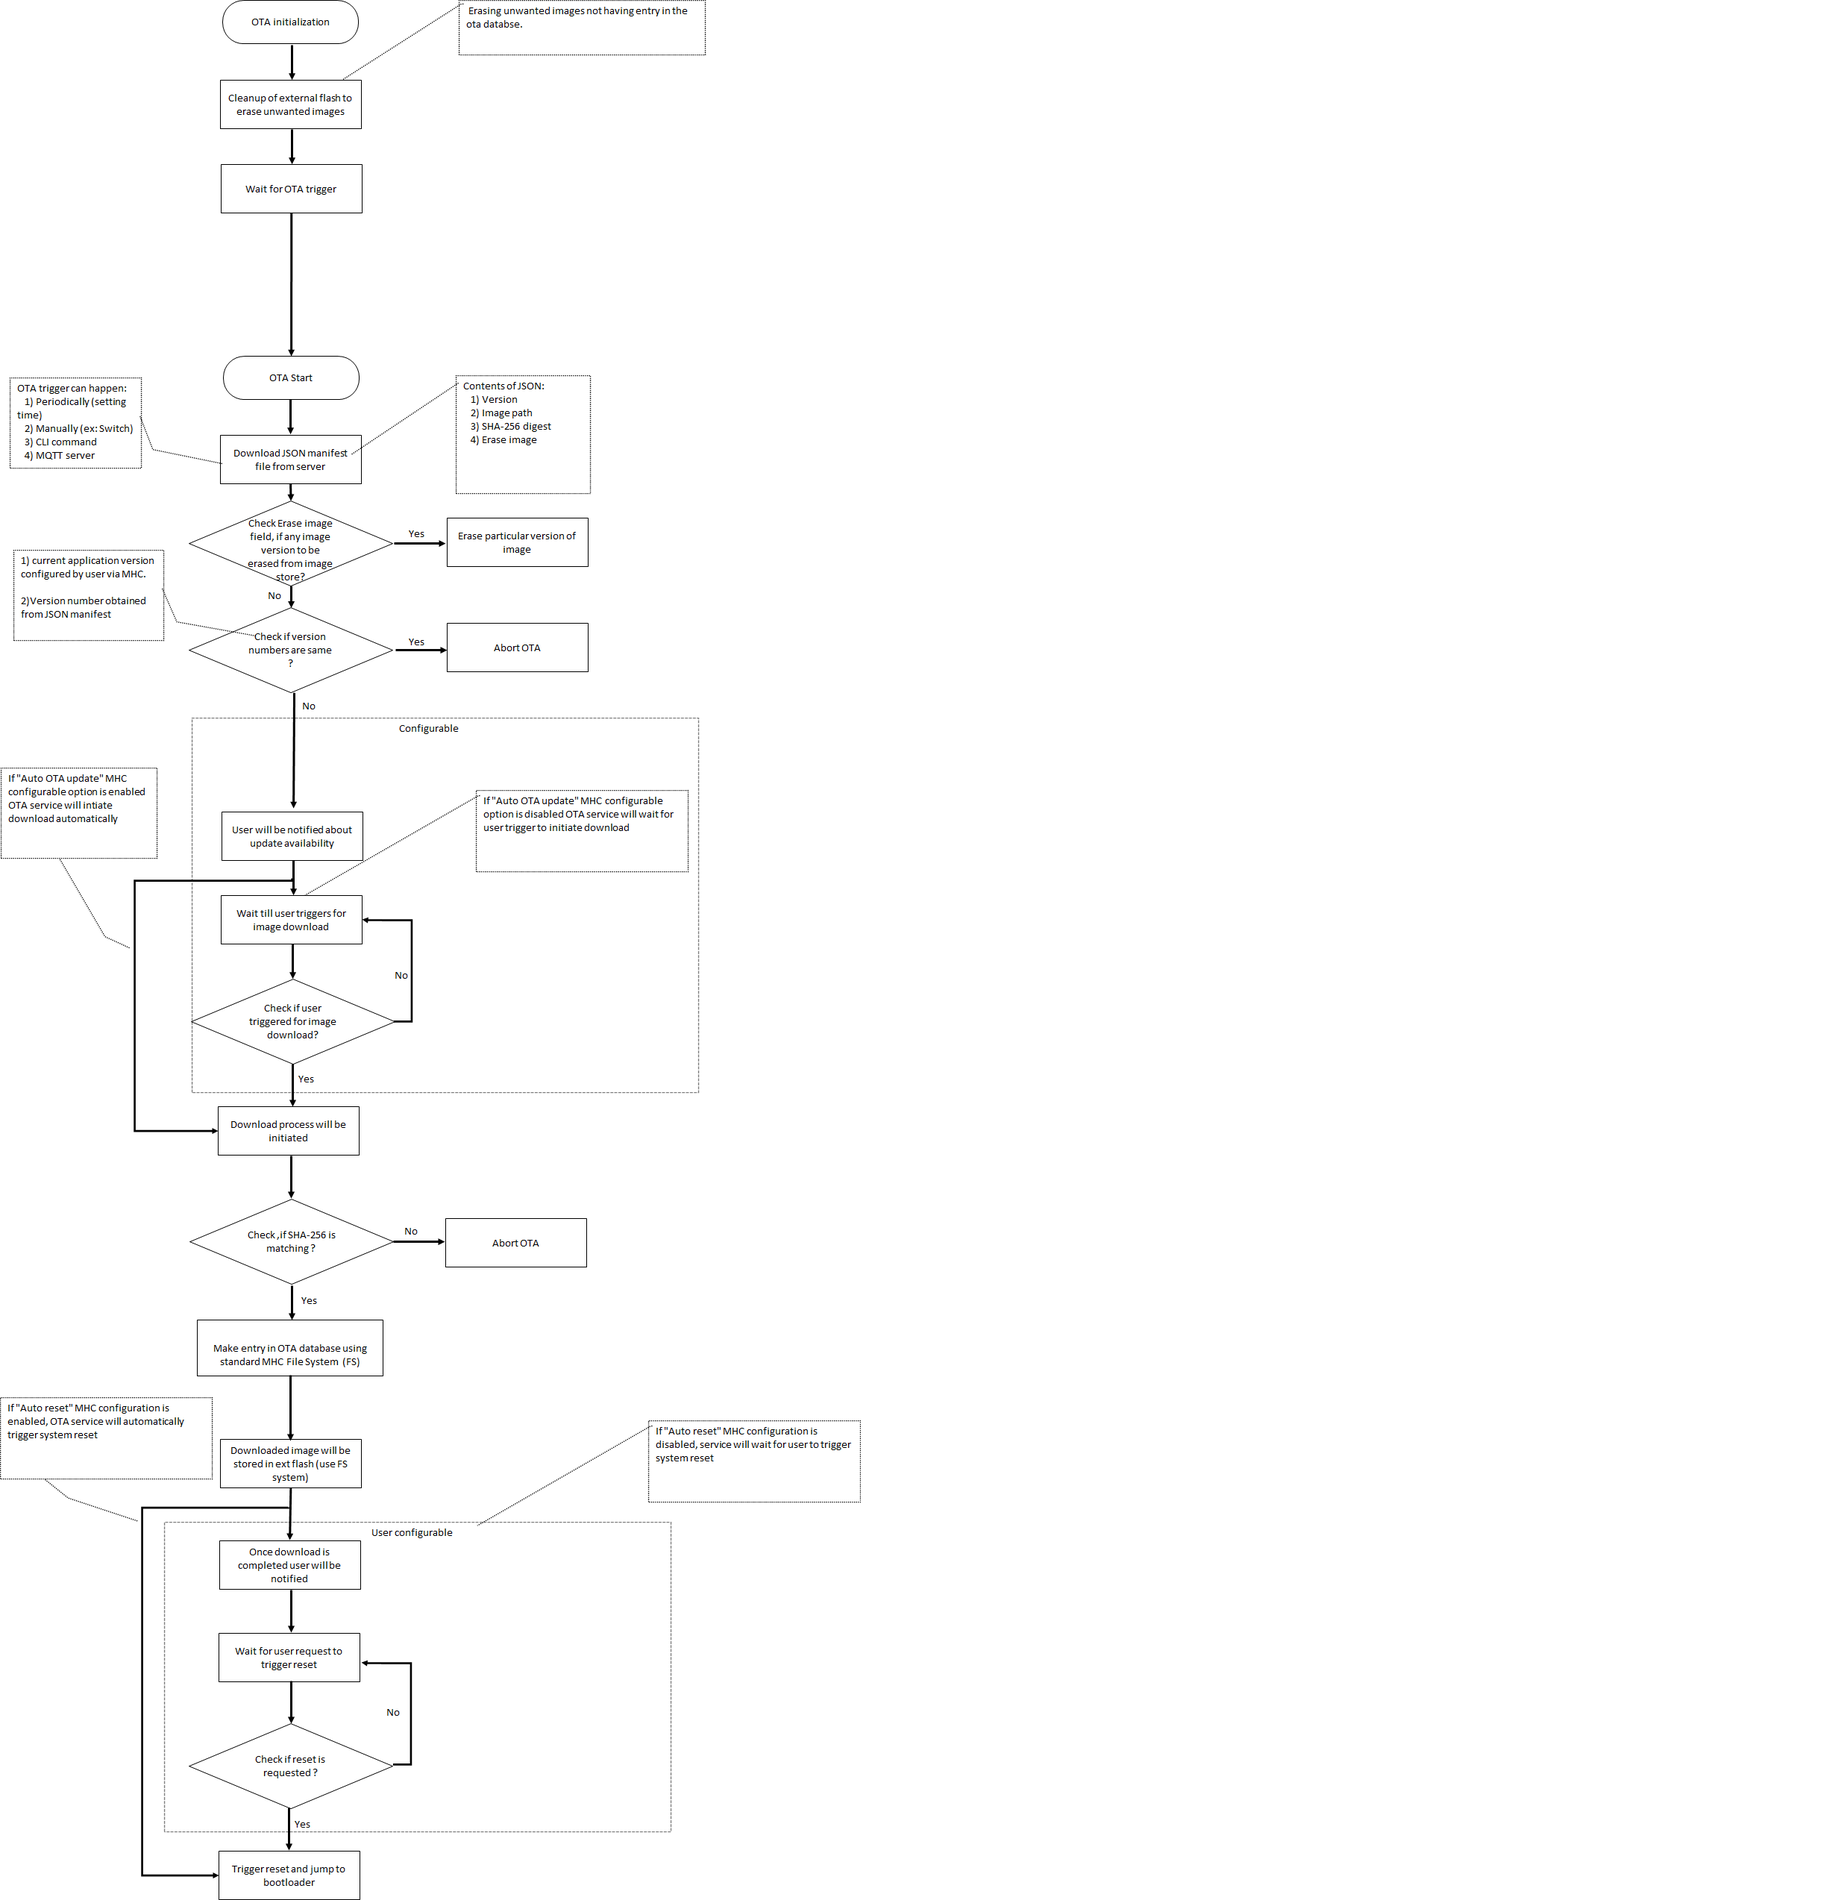
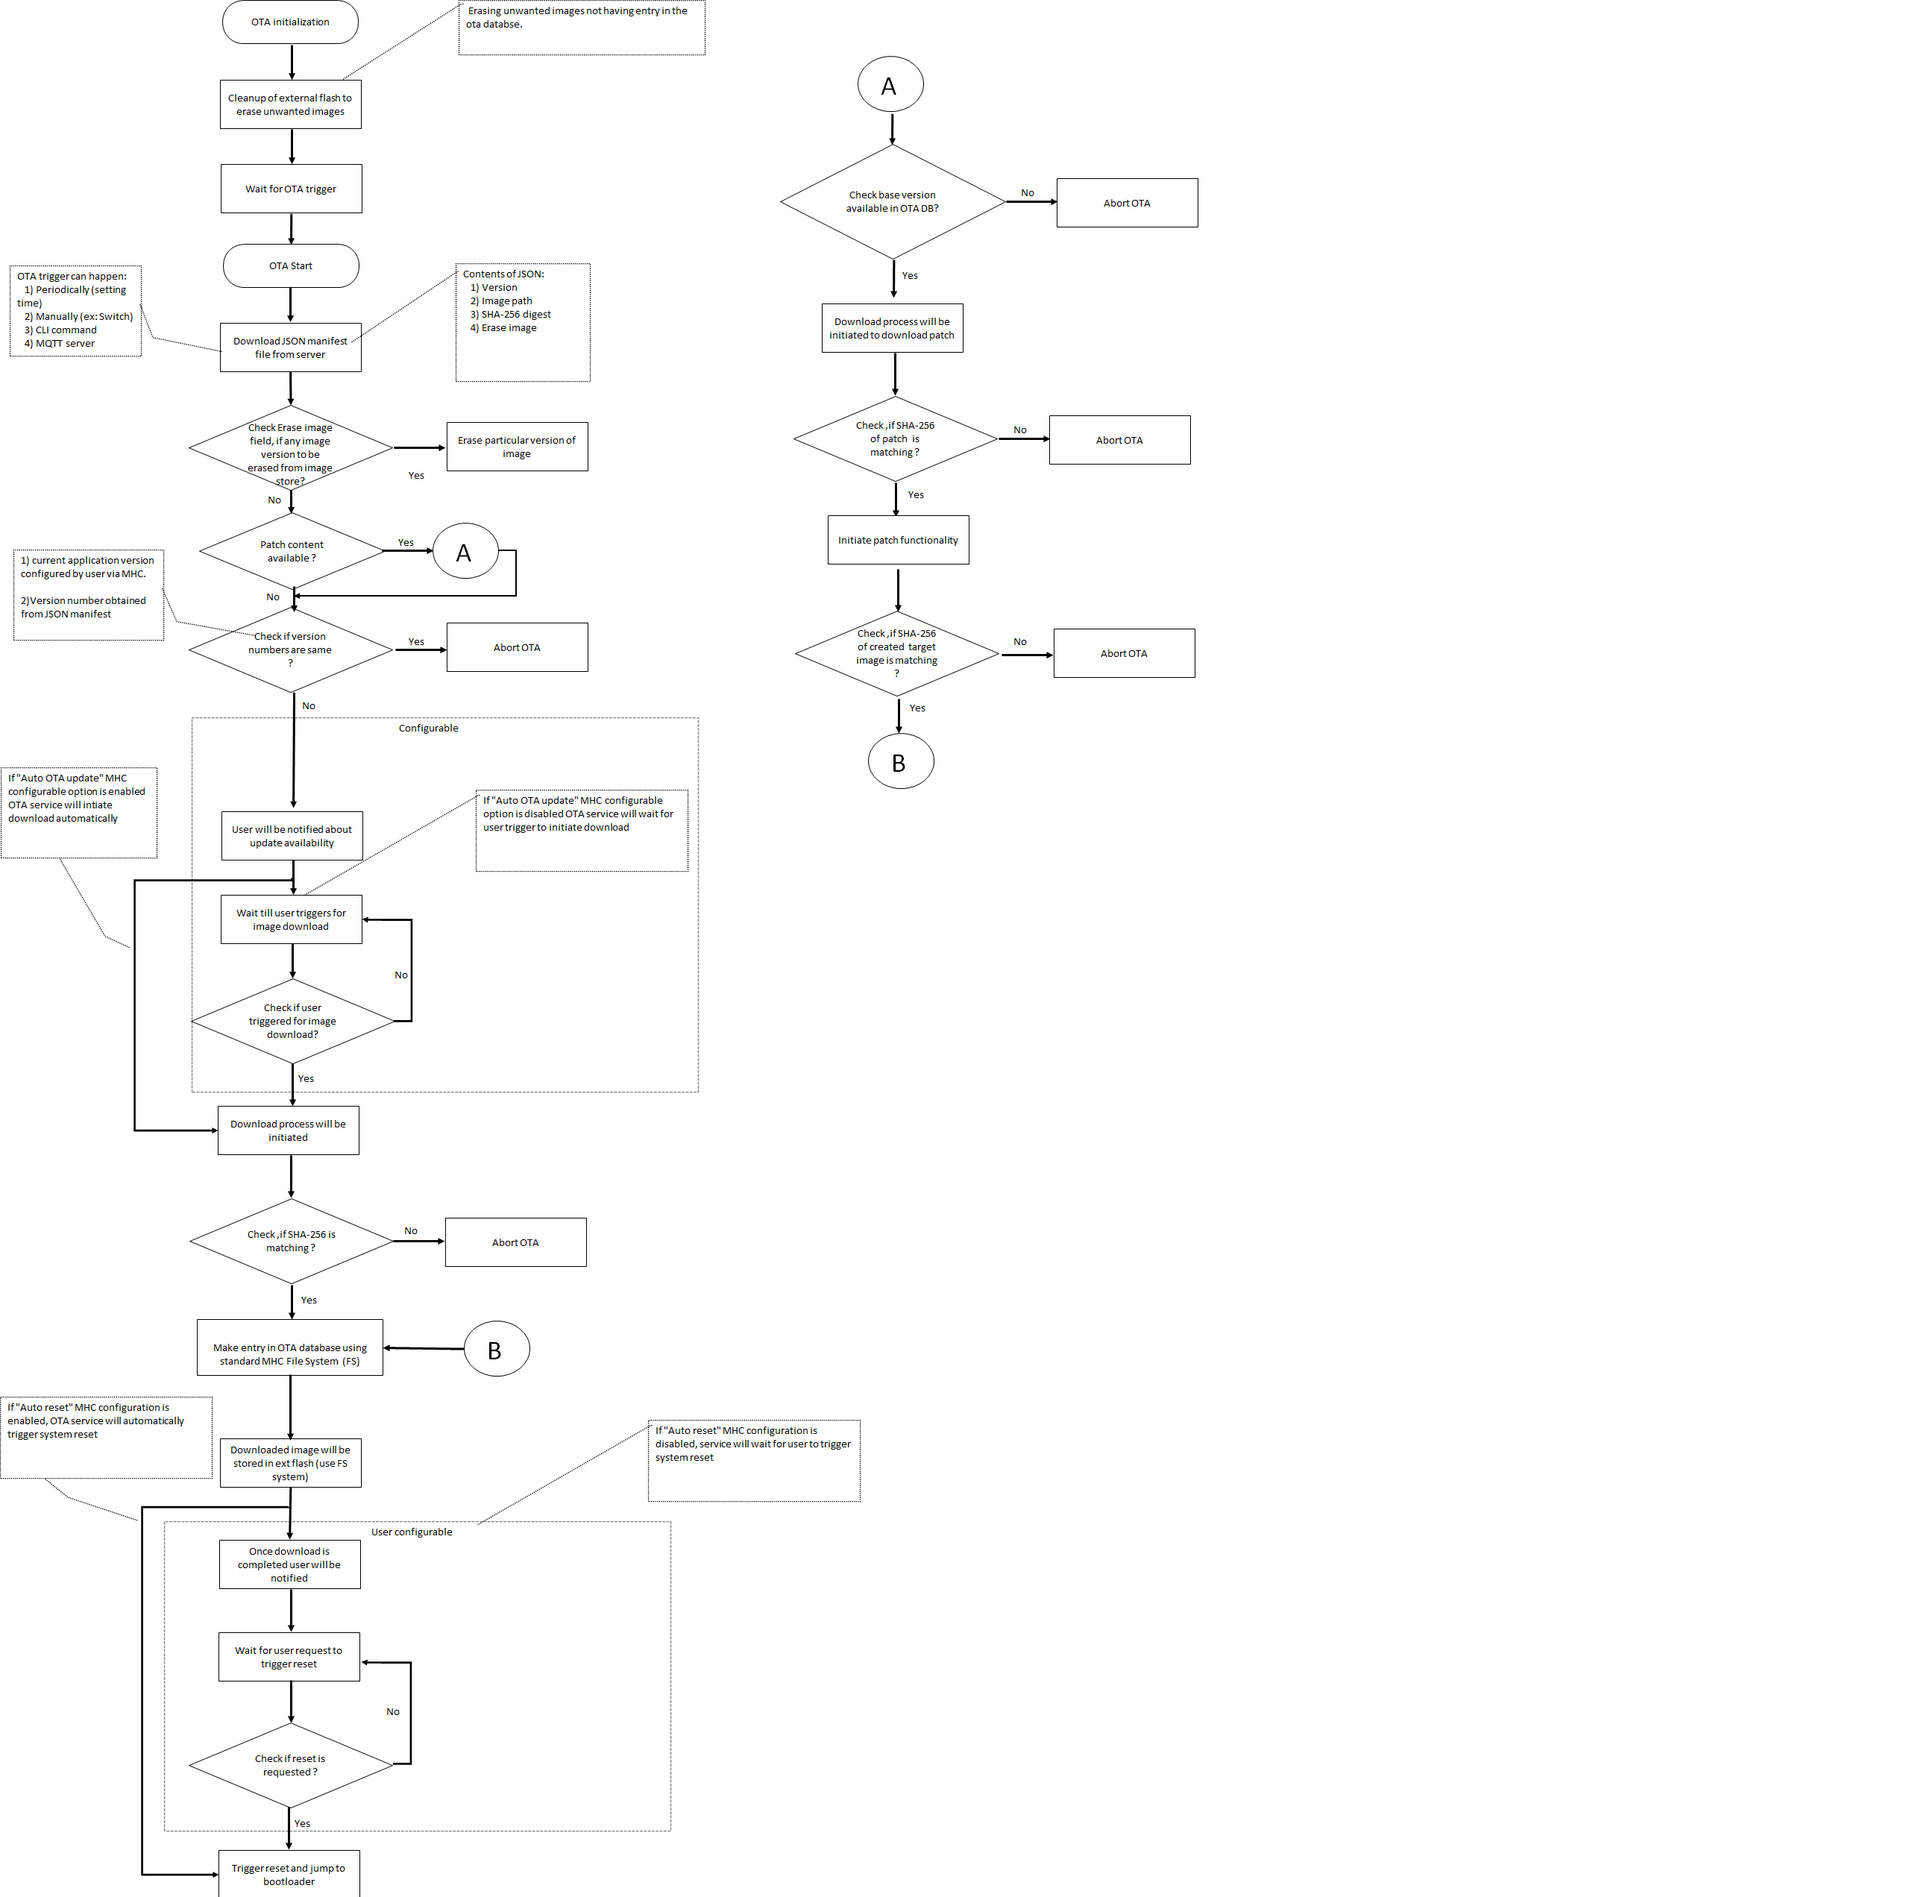
[WSR2-597] Documentation (Flow chart) update for patch

diff --git a/system/ota/docs/usage.md b/system/ota/docs/usage.md
@@ -90,12 +90,11 @@ The OTA service expects the HTTP based OTA server to provide metadata of images 
 
 ```json
     {
-    
     "ota": [
             {
-                "Version": 3,
-                "URL": "http://192.168.43.173:8000/wifi_ota103.bin",
[1 lines of base64/hex data omitted]
+                "Version": 5,
+                "URL": "http://192.168.0.101:8000/wifi_ota_app_upgrade_ver2.bin",
[1 lines of base64/hex data omitted]
                 "EraseVer": false,
                 "Patch" : [
                               {
@@ -113,12 +112,6 @@ The OTA service expects the HTTP based OTA server to provide metadata of images 
[1 lines of base64/hex data omitted]
                               }
                           ]
-            },
-            {
-                "Version": 6,
-                "URL": "http://192.168.43.173:8000/wifi_ota100.bin",
[1 lines of base64/hex data omitted]
-                "EraseVer": false
             }
            ]
     }
@@ -174,7 +167,7 @@ A boot control area of size 4 KB is maintained in internal flash area of device 
 
  **a. OTA Service:**
 
-   ![applicationheader](images/otaservice_flowchart.PNG)
+   ![applicationheader](images/otaservice_flowchart.png)
 
    - **OTA Start:** OTA process can be triggered using various methods :
 
